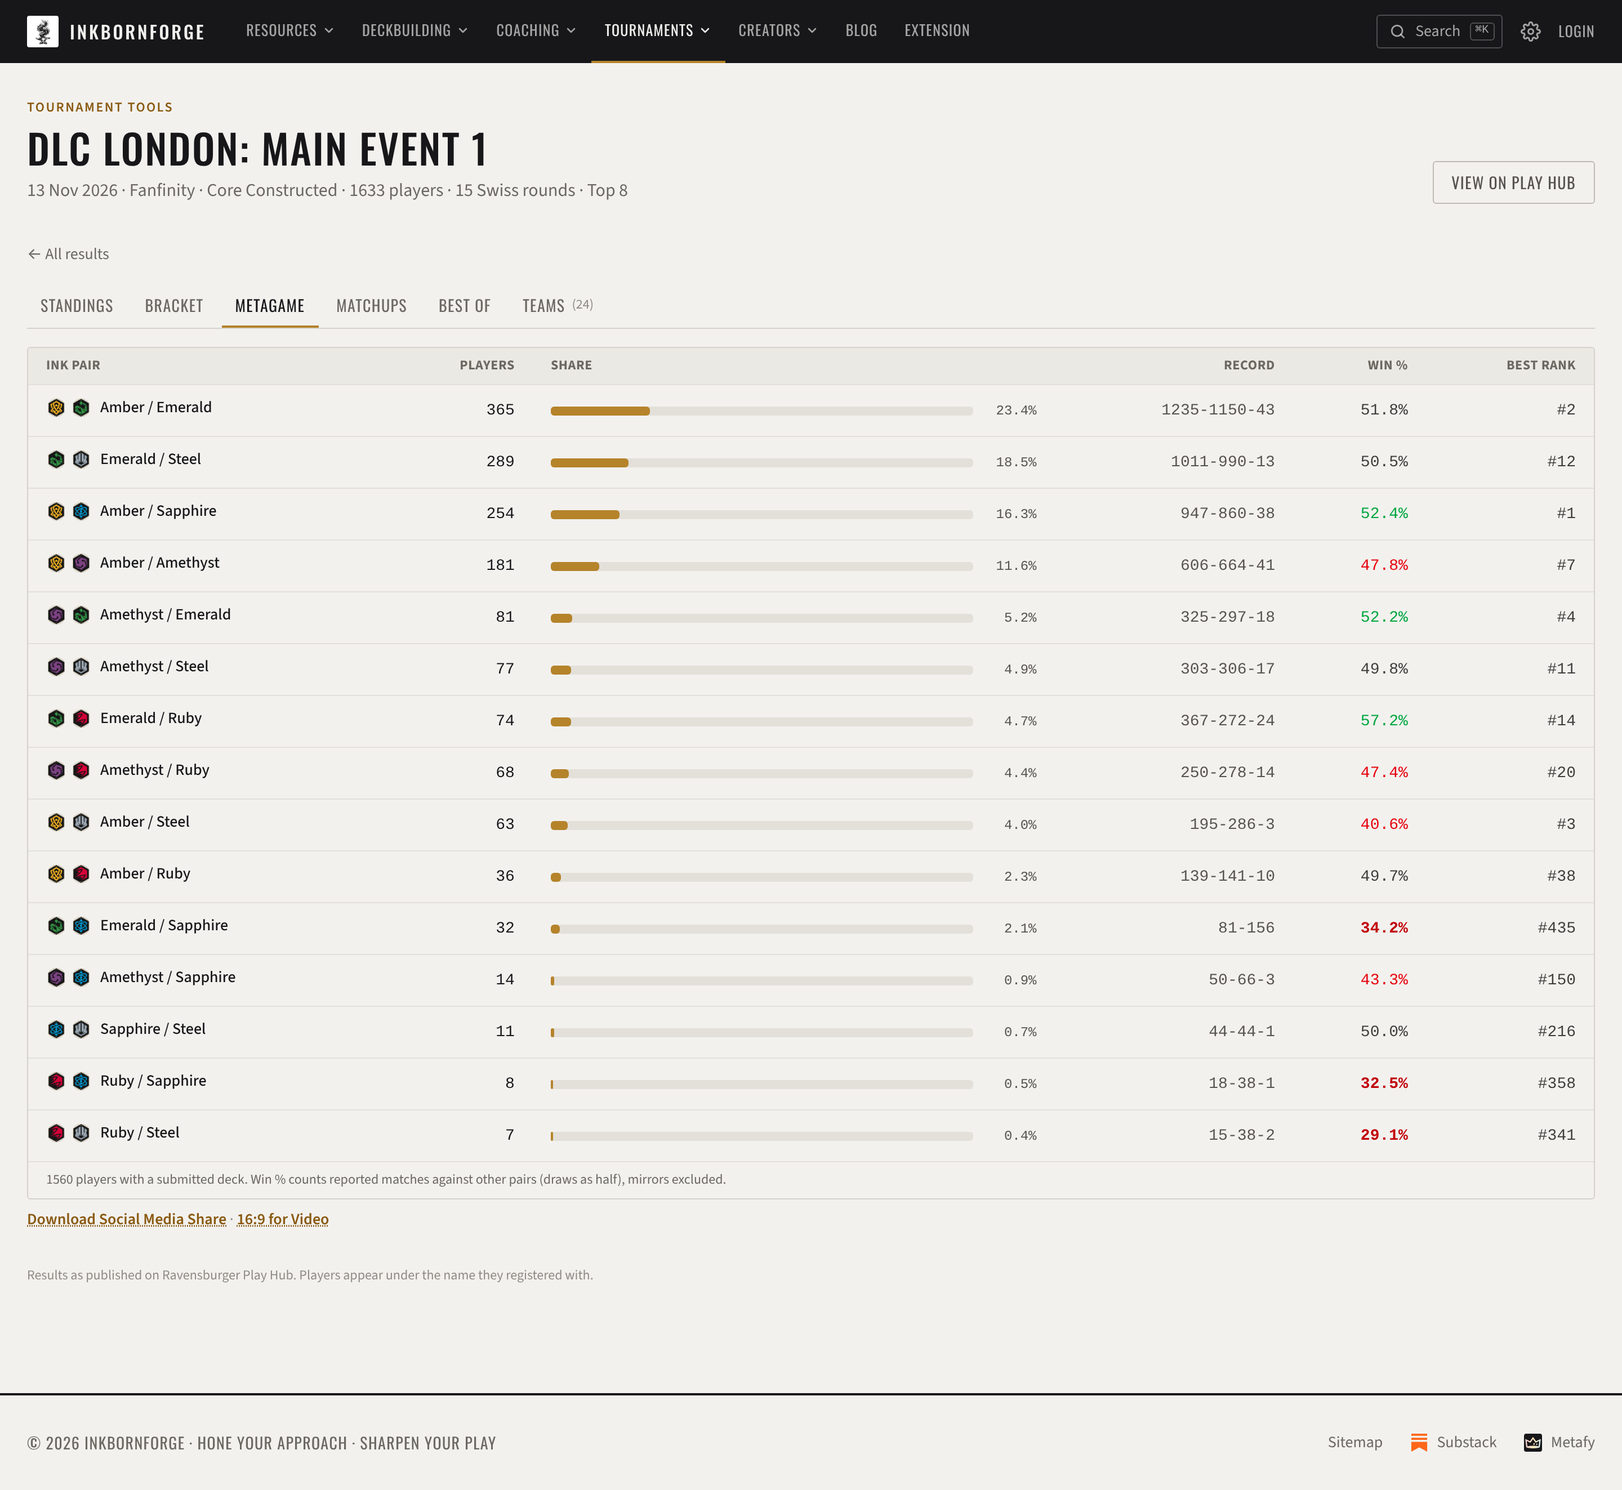
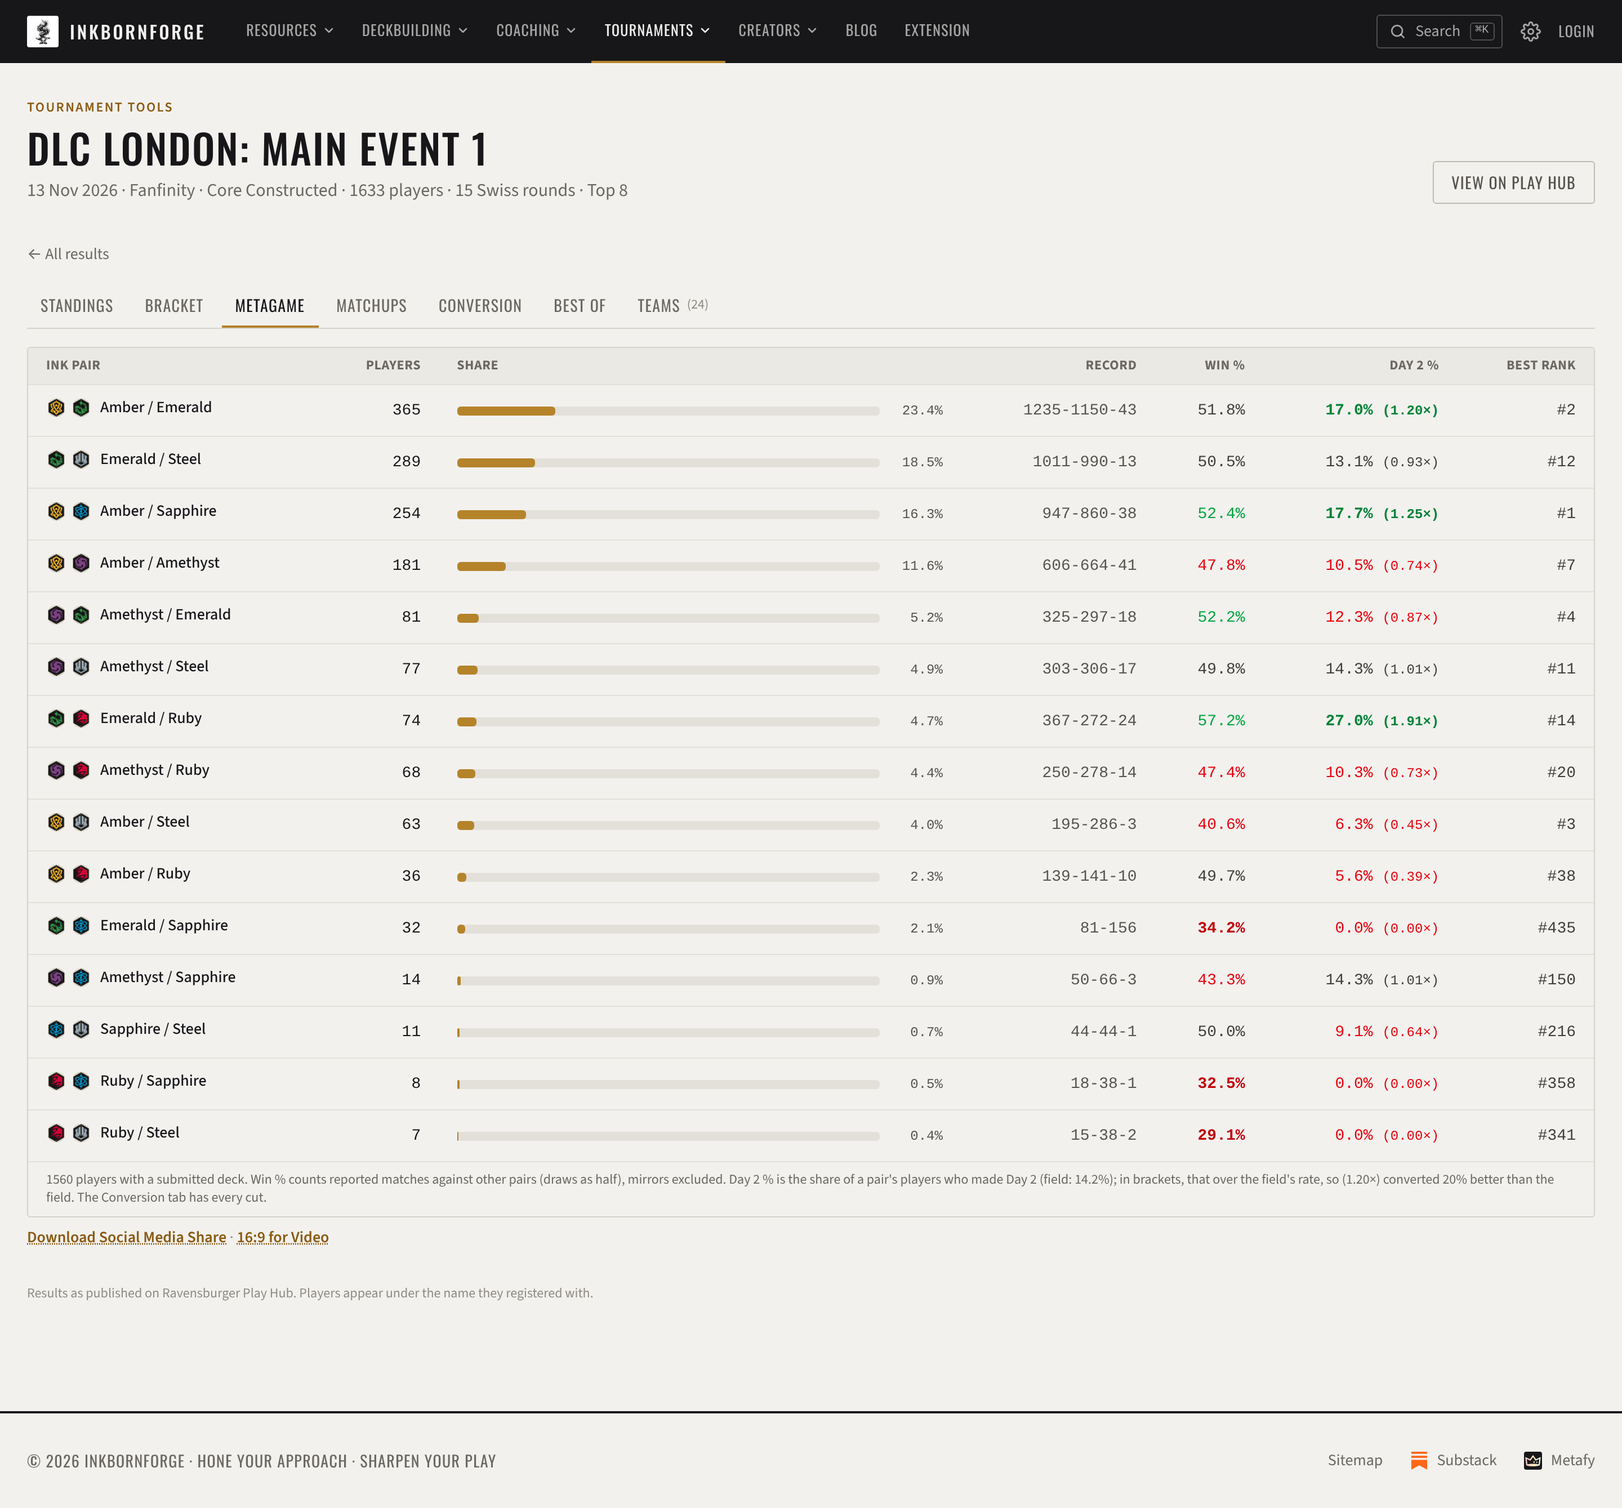
Results: Conversion tab from the imported cuts, load matches once per page
Claude-Session: https://claude.ai/code/session_01TJQgt2kt2EdU9Y3n45TLwp

diff --git a/src/pages/ResultsEventPage.jsx b/src/pages/ResultsEventPage.jsx
@@ -13,7 +13,7 @@ import { Tabs, Tab } from '../components/ui/Tabs'
 import { TeamLogo } from '../components/TeamLogo'
 import { ordinal } from '../lib/resultsArchive'
 import { InkIcons } from '../components/InkIcons'
-import { InkMetaTab, InkMatrixTab, BestOfTab } from '../components/InkPairStats'
+import { InkMetaTab, InkMatrixTab, BestOfTab, ConversionTable } from '../components/InkPairStats'
 import { ArchiveFootnote, ArchiveLoading, ArchiveError } from '../components/ResultsArchive'
 
 // Team Tracker teams with a member in this event (who was on the team that
@@ -173,20 +173,18 @@ function InkPairUpload({ eventId, onSaved }) {
   )
 }
 
-const INK_TABS = [['meta', 'Metagame'], ['matrix', 'Matchups'], ['bestof', 'Best Of']]
+const INK_TABS = [['meta', 'Metagame'], ['matrix', 'Matchups'], ['conversion', 'Conversion'], ['bestof', 'Best Of']]
 
-// Tournament Lookup's ink-pair tabs over the archive. Every match of the event
-// is loaded the first time one of them opens.
-function InkTabs({ tab, eventId, event, standings }) {
-  const [matches, setMatches] = useState(null)
-  const [error, setError] = useState(null)
-  useEffect(() => {
-    fetchArchiveEventMatches(eventId).then((r) => setMatches(r.matches)).catch(setError)
-  }, [eventId])
-  const ink = useMemo(() => matches && archiveInkData({ event, standings, matches }), [event, standings, matches])
-  if (error) return <p className="text-sm text-red-700">Could not load this event's matches.</p>
+// Tournament Lookup's ink-pair tabs over the archive. `matches` is null while
+// the event's matches load, an Error if they failed.
+function InkTabs({ tab, event, standings, matches }) {
+  const ink = useMemo(() => Array.isArray(matches) && archiveInkData({ event, standings, matches }), [event, standings, matches])
+  if (matches instanceof Error) return <p className="text-sm text-red-700">Could not load this event's matches.</p>
   if (!ink) return <ArchiveLoading label="Loading matches…" />
-  if (tab === 'meta') return <InkMetaTab allMatches={ink.allMatches} structure={ink.structure} standings={ink.standings} />
+  if (tab === 'conversion') {
+    return <ConversionTable allMatches={ink.allMatches} structure={ink.structure} stages={ink.stages} cutNote="Day 2 is the players who played in the second Swiss phase; the top cut is the players who made the bracket." />
+  }
+  if (tab === 'meta') return <InkMetaTab allMatches={ink.allMatches} structure={ink.structure} standings={ink.standings} stages={ink.stages.length ? ink.stages : null} />
   if (tab === 'matrix') return <InkMatrixTab allMatches={ink.allMatches} structure={ink.structure} standings={ink.standings} />
   return <BestOfTab standings={ink.standings} inksById={ink.inksById} allMatches={ink.allMatches} structure={ink.structure} standingsLabel="Final standings" />
 }
@@ -203,6 +201,13 @@ function EventView({ eventId }) {
   const [tab, setTab] = useState('standings')
   const [filter, setFilter] = useState('')
   const { isAdmin } = useSupporter()
+  // Every match of the event, loaded once, the first time an ink tab opens.
+  const [matches, setMatches] = useState(null)
+  const inkTab = INK_TABS.some(([key]) => key === tab)
+  useEffect(() => {
+    if (!inkTab || matches) return
+    fetchArchiveEventMatches(eventId).then((r) => setMatches(r.matches)).catch(setMatches)
+  }, [inkTab, matches, eventId])
 
   useEffect(() => {
     fetchArchiveEvent(eventId).then(setData).catch(setError)
@@ -232,6 +237,7 @@ function EventView({ eventId }) {
   const hasBracket = bracket.length > 0
   // Inks are unknown (null) until a source fills them; hide the column until one does.
   const hasInks = data.standings.some((s) => s.inks)
+  const hasCut = data.standings.some((s) => s.madeDayTwo || s.madeTopCut)
   const teams = data.teams ?? []
 
   return (
@@ -252,7 +258,7 @@ function EventView({ eventId }) {
       <Tabs className="mt-4 mb-4">
         <Tab active={tab === 'standings'} onClick={() => setTab('standings')}>Standings</Tab>
         {hasBracket && <Tab active={tab === 'bracket'} onClick={() => setTab('bracket')}>Bracket</Tab>}
-        {hasInks && INK_TABS.map(([key, label]) => (
+        {hasInks && INK_TABS.filter(([key]) => key !== 'conversion' || hasCut).map(([key, label]) => (
           <Tab key={key} active={tab === key} onClick={() => setTab(key)}>{label}</Tab>
         ))}
         {teams.length > 0 && (
@@ -266,8 +272,8 @@ function EventView({ eventId }) {
         <Card className="p-4">
           <EliminationBracket allMatches={bracket.map(toBracketMatch)} phaseName={bracket[0].phaseName} />
         </Card>
-      ) : hasInks && INK_TABS.some(([key]) => key === tab) ? (
-        <InkTabs tab={tab} eventId={eventId} event={event} standings={data.standings} />
+      ) : hasInks && inkTab ? (
+        <InkTabs tab={tab} event={event} standings={data.standings} matches={matches} />
       ) : tab === 'teams' && teams.length > 0 ? (
         <TeamsTab teams={teams} />
       ) : (

diff --git a/src/components/InkPairStats.jsx b/src/components/InkPairStats.jsx
@@ -53,7 +53,6 @@ function useCutStages(structure, withOptional = false) {
 export function ConversionTab({ allMatches, structure }) {
   const [showTop32, setShowTop32] = useState(false)
   const { cuts, stages, error } = useCutStages(structure, showTop32)
-  const funnel = useMemo(() => stages && conversionFunnel(allMatches, stages), [stages, allMatches])
   const top32Toggle = structure.cuts.some((c) => c.optional && c.fromRoundId) && (
     <label className="flex items-center gap-2 text-sm text-gray-500">
       <input type="checkbox" checked={showTop32} onChange={(e) => setShowTop32(e.target.checked)} />
@@ -61,13 +60,28 @@ export function ConversionTab({ allMatches, structure }) {
     </label>
   )
   if (error) return <p className="text-sm text-red-600">{error}</p>
-  if (!funnel) return <div className="space-y-2">{top32Toggle}<p className="text-sm text-gray-500">Loading the standings that decided each cut…</p></div>
-
-  const labels = cuts.map((c) => c.label)
+  if (!stages) return <div className="space-y-2">{top32Toggle}<p className="text-sm text-gray-500">Loading the standings that decided each cut…</p></div>
   const cutoffText = (c) => (c.cutoff.type === 'rank' ? `the top ${c.cutoff.value}${c.cutoff.ties ? ' and anyone tied on its match points' : ''}` : `${c.cutoff.value}+ match points`)
   return (
     <div className="space-y-2">
       {top32Toggle}
+      <ConversionTable
+        allMatches={allMatches}
+        structure={structure}
+        stages={stages}
+        cutNote={`${cuts.map((c) => `${c.label} is ${cutoffText(c)}`).join('; ')}, read from the standings that decided it.`}
+      />
+    </div>
+  )
+}
+
+// The funnel table and its share image. `stages` is [{ label, ids }];
+// `cutNote` says how each cut was decided.
+export function ConversionTable({ allMatches, structure, stages, cutNote }) {
+  const funnel = useMemo(() => conversionFunnel(allMatches, stages), [stages, allMatches])
+  const labels = stages.map((s) => s.label)
+  return (
+    <div className="space-y-2">
       <div className="border border-gray-200 rounded-lg overflow-hidden">
         <div className="overflow-x-auto">
           <table className="w-full text-sm min-w-[560px]">
@@ -126,7 +140,7 @@ export function ConversionTab({ allMatches, structure }) {
           </table>
         </div>
         <p className="px-4 py-2 text-xs text-gray-500 border-t border-gray-100">
-          {cuts.map((c) => `${c.label} is ${cutoffText(c)}`).join('; ')}, read from the standings that decided it. Conv. is the share of a pair's players at the stage before who made the cut; vs field is that over the field's rate, so 1.25× converted 25% better. Players with no submitted deck are left out. Small pairs swing hard: a pair of 10 moves 10 points per player.
+          {cutNote} Conv. is the share of a pair's players at the stage before who made the cut; vs field is that over the field's rate, so 1.25× converted 25% better. Players with no submitted deck are left out. Small pairs swing hard: a pair of 10 moves 10 points per player.
         </p>
       </div>
       <ShareDownloadLink render={(video) => renderConversionShareImage({ funnel, labels, structure, video })} filename={shareFilename(structure, 'conversion')} />
@@ -135,13 +149,16 @@ export function ConversionTab({ allMatches, structure }) {
 }
 
 // The field by ink pair, from the players' submitted decks on Play Hub.
-export function InkMetaTab({ allMatches, structure, standings }) {
+// `stages` overrides the cuts read live from Play Hub (the results archive
+// passes the ones it recorded at import).
+export function InkMetaTab({ allMatches, structure, standings, stages: givenStages }) {
   const rows = useMemo(() => inkPairMeta(allMatches), [allMatches])
   const bestRank = useMemo(() => bestRankByPair(standings, playerInks(allMatches)), [standings, allMatches])
   const players = rows.reduce((sum, r) => sum + r.players, 0)
   // The first decided cut (a DLC's Day 2): each pair's conversion, colored by
   // its lift over the field. The Conversion tab has the full funnel.
-  const { stages } = useCutStages(structure)
+  const liveStages = useCutStages(structure).stages
+  const stages = givenStages ?? liveStages
   const firstCut = useMemo(() => {
     if (!stages) return null
     const { rows: funnelRows, field } = conversionFunnel(allMatches, stages.slice(0, 1))

diff --git a/src/lib/resultsArchive.js b/src/lib/resultsArchive.js
@@ -50,7 +50,9 @@ export function toBracketMatch(match) {
 // (InkPairStats.jsx) read. The archive keeps each player's pair on their
 // standing (from Play Hub's deck descriptors or an inkdecks upload), so it is
 // put back on every match as the deck descriptor label. Unranked standings
-// are left out; the event has no live round or decided cuts.
+// are left out; the event has no live round. `stages` are the cuts the import
+// recorded (Day 2: played in the second Swiss phase; the top cut), for the
+// Conversion tab, each kept only when someone made it.
 export function archiveInkData({ event, standings, matches }) {
   const inksById = new Map(standings.filter((s) => s.inks).map((s) => [String(s.playerId), s.inks]))
   const label = (id) => {
@@ -62,9 +64,14 @@ export function archiveInkData({ event, standings, matches }) {
     for (const rel of match.player_match_relationships) rel.user_event_status.deck_descriptor_label = label(rel.player.id)
     return match
   })
+  const stages = [
+    { label: 'Day 2', ids: new Set(standings.filter((s) => s.madeDayTwo).map((s) => String(s.playerId))) },
+    { label: `Top ${event.topCutSize}`, ids: new Set(standings.filter((s) => s.madeTopCut).map((s) => String(s.playerId))) },
+  ].filter((s) => s.ids.size > 0)
   return {
     inksById,
     allMatches,
+    stages,
     standings: standings
       .filter((s) => s.rank != null)
       .map((s) => ({

diff --git a/src/lib/__tests__/resultsArchive.test.js b/src/lib/__tests__/resultsArchive.test.js
@@ -155,7 +155,7 @@ describe('archiveInkData', () => {
   const data = archiveInkData({
     event: { eventName: 'DLC Test', gameplayFormat: 'Core Constructed', startingPlayerCount: 4, topCutSize: 8 },
     standings: [
-      { playerId: '1', playerName: 'P1', rank: 1, matchPoints: 6, record: '2-0', inks: ['amber', 'steel'] },
+      { playerId: '1', playerName: 'P1', rank: 1, matchPoints: 6, record: '2-0', inks: ['amber', 'steel'], madeDayTwo: true },
       { playerId: '2', playerName: 'P2', rank: 2, matchPoints: 3, record: '1-1', inks: ['emerald', 'ruby'] },
       { playerId: '3', playerName: 'P3', rank: 3, matchPoints: 3, record: '1-1', inks: ['amber', 'steel'] },
       { playerId: '4', playerName: 'P4', rank: null, matchPoints: 0, record: '0-2', inks: null },
@@ -180,5 +180,9 @@ describe('archiveInkData', () => {
       ['emerald/ruby', 'P2', '1-1'],
     ])
     expect(data.structure).toMatchObject({ eventName: 'DLC Test', cuts: [] })
+  })
+
+  it('keeps only the cuts someone made, as Conversion stages', () => {
+    expect(data.stages.map((s) => [s.label, [...s.ids]])).toEqual([['Day 2', ['1']]])
   })
 })

diff --git a/api/_lib/tournamentHistorySupabase.ts b/api/_lib/tournamentHistorySupabase.ts
@@ -354,7 +354,7 @@ export function getEventStandings(eventDbId: string) {
   return fetchAllRanges<any>(() =>
     supabase
       .from('tournament_history_standings')
-      .select('rph_player_id, player_name, rank, match_points, record, made_top_cut, inks')
+      .select('rph_player_id, player_name, rank, match_points, record, made_top_cut, made_day_two, inks')
       .eq('event_id', eventDbId)
       .order('rank', { ascending: true, nullsFirst: false })
       .order('id') // stable order across .range() pages

diff --git a/api/tournament-history.ts b/api/tournament-history.ts
@@ -408,6 +408,7 @@ async function handleEvent(req: VercelRequest, res: VercelResponse) {
         matchPoints: s.match_points,
         record: s.record,
         madeTopCut: Boolean(s.made_top_cut),
+        madeDayTwo: Boolean(s.made_day_two),
         inks: s.inks,
       })),
       bracket: bracketRows.map((m: any) => matchShape(m, eventId)),

diff --git a/docs/agents/tournaments.md b/docs/agents/tournaments.md
@@ -58,7 +58,7 @@ The caster-facing tool for surfacing a player's history across multiple imported
 
 **Day 2 in the archive:** `tournament_history_standings.made_day_two` (migration `018`), precomputed at import like `made_top_cut`: a player made Day 2 if they played a match in the event's second Swiss phase (a DLC's "Day Two Swiss"; matches carry `phase_name`), counted only when that phase holds fewer players than started, since a few side events run everyone through two Swiss phases. `player-history` returns `madeDayTwo` per event and `dayTwoCount`.
 
-**Ink pair per player:** `tournament_history_standings.inks` (migration `028`), the ink pair a player brought to the event: lowercase, sorted, as `resolveColors()` returns them, checked in the database to be one or two valid inks. NULL means unknown. The RPH import fills it from the matches' `deck_descriptor_label` (`playerInksFromMatches()` in `tournamentImport.ts`) for every player who has one, on events that show it; it writes only those players, so a hand-uploaded pair survives a re-import of an event without descriptors. For older events the source is an inkdecks decklist export the owner supplies (a JSON array of decks with `author` and `inks`). An admin uploads it on the event's results page (the "Ink pairs (admin)" card, `InkPairUpload` in `ResultsEventPage.jsx`) to `POST ?endpoint=ink-pairs`, which matches each author to a standing by exact, case-sensitive name (`matchDeckInks()` in `api/_lib/deckInks.ts`, unit-tested), writes the matched pairs (overwriting any earlier pair) and returns the authors it skipped: not in the standings, a name on several players or decks that disagree on inks, or no valid pair. A skipped player is set by hand in SQL. DLC Bangkok 2026 (event 1233041) and the Randolph 5K (1024787) were filled by SQL before the upload existed; in Bangkok the four repeated names were placed by deck-id order, which the upload does not attempt. The standings upsert does not send the column; the import writes it separately through `setStandingInks()`. The `event` endpoint returns `inks` per standing and `ResultsEventPage` shows an Inks column only when some player in the event has one; the `player` endpoint returns `inks` per event, and `ResultsPlayerPage` shows an Inks column and a Decks played card (`playerSummary().inkPairs`: events, top cuts and match record per pair) only when one of the player's events has one. When some player has a pair, `ResultsEventPage` also shows Tournament Lookup's **Metagame**, **Matchups** and **Best Of** tabs (the `InkPairStats.jsx` components, share images included; no Conversion, the archive keeps no cut standings): opening one fetches every match of the event once from the public, edge-cached `event-matches` endpoint, and `archiveInkData()` in `resultsArchive.js` (unit-tested) adapts the archive to the RPH shapes those tabs read, putting each standing's pair back on the matches as a deck descriptor label so hand-uploaded pairs count too.
+**Ink pair per player:** `tournament_history_standings.inks` (migration `028`), the ink pair a player brought to the event: lowercase, sorted, as `resolveColors()` returns them, checked in the database to be one or two valid inks. NULL means unknown. The RPH import fills it from the matches' `deck_descriptor_label` (`playerInksFromMatches()` in `tournamentImport.ts`) for every player who has one, on events that show it; it writes only those players, so a hand-uploaded pair survives a re-import of an event without descriptors. For older events the source is an inkdecks decklist export the owner supplies (a JSON array of decks with `author` and `inks`). An admin uploads it on the event's results page (the "Ink pairs (admin)" card, `InkPairUpload` in `ResultsEventPage.jsx`) to `POST ?endpoint=ink-pairs`, which matches each author to a standing by exact, case-sensitive name (`matchDeckInks()` in `api/_lib/deckInks.ts`, unit-tested), writes the matched pairs (overwriting any earlier pair) and returns the authors it skipped: not in the standings, a name on several players or decks that disagree on inks, or no valid pair. A skipped player is set by hand in SQL. DLC Bangkok 2026 (event 1233041) and the Randolph 5K (1024787) were filled by SQL before the upload existed; in Bangkok the four repeated names were placed by deck-id order, which the upload does not attempt. The standings upsert does not send the column; the import writes it separately through `setStandingInks()`. The `event` endpoint returns `inks` per standing and `ResultsEventPage` shows an Inks column only when some player in the event has one; the `player` endpoint returns `inks` per event, and `ResultsPlayerPage` shows an Inks column and a Decks played card (`playerSummary().inkPairs`: events, top cuts and match record per pair) only when one of the player's events has one. When some player has a pair, `ResultsEventPage` also shows Tournament Lookup's **Metagame**, **Matchups**, **Conversion** and **Best Of** tabs (the `InkPairStats.jsx` components, share images included): the first one opened fetches every match of the event, once per page, from the public, edge-cached `event-matches` endpoint. Conversion (`ConversionTable`, the Lookup's table without its live standings fetch) and Metagame's Day 2 % column read the cuts the import recorded, `made_day_two` and `made_top_cut`, rather than re-deriving them (DLC London: 221 of 1,560 made Day 2, the Lookup's figure; no Top 32 toggle); and `archiveInkData()` in `resultsArchive.js` (unit-tested) adapts the archive to the RPH shapes those tabs read, putting each standing's pair back on the matches as a deck descriptor label so hand-uploaded pairs count too.
 
 **DLCs and Championships played:** `seriesCounts()` in `resultsArchive.js`, used by `playerSummary()` (the player page) and `buildPlayerCard()` (caster notes; `player-history` returns `eventTier` per event for it), counts `dlcs` (events on the `challenge` template, Main Event 2s and the Youth Division included) and `championships` (`challenge_championship`, minus any event named "Qualifier": RPH ran DLC London's CCQ, 1256351, on the championship template). Worlds predates RPH and isn't in the archive; the Asia Championship main event (903021) sits on a generic template and isn't counted.
 
